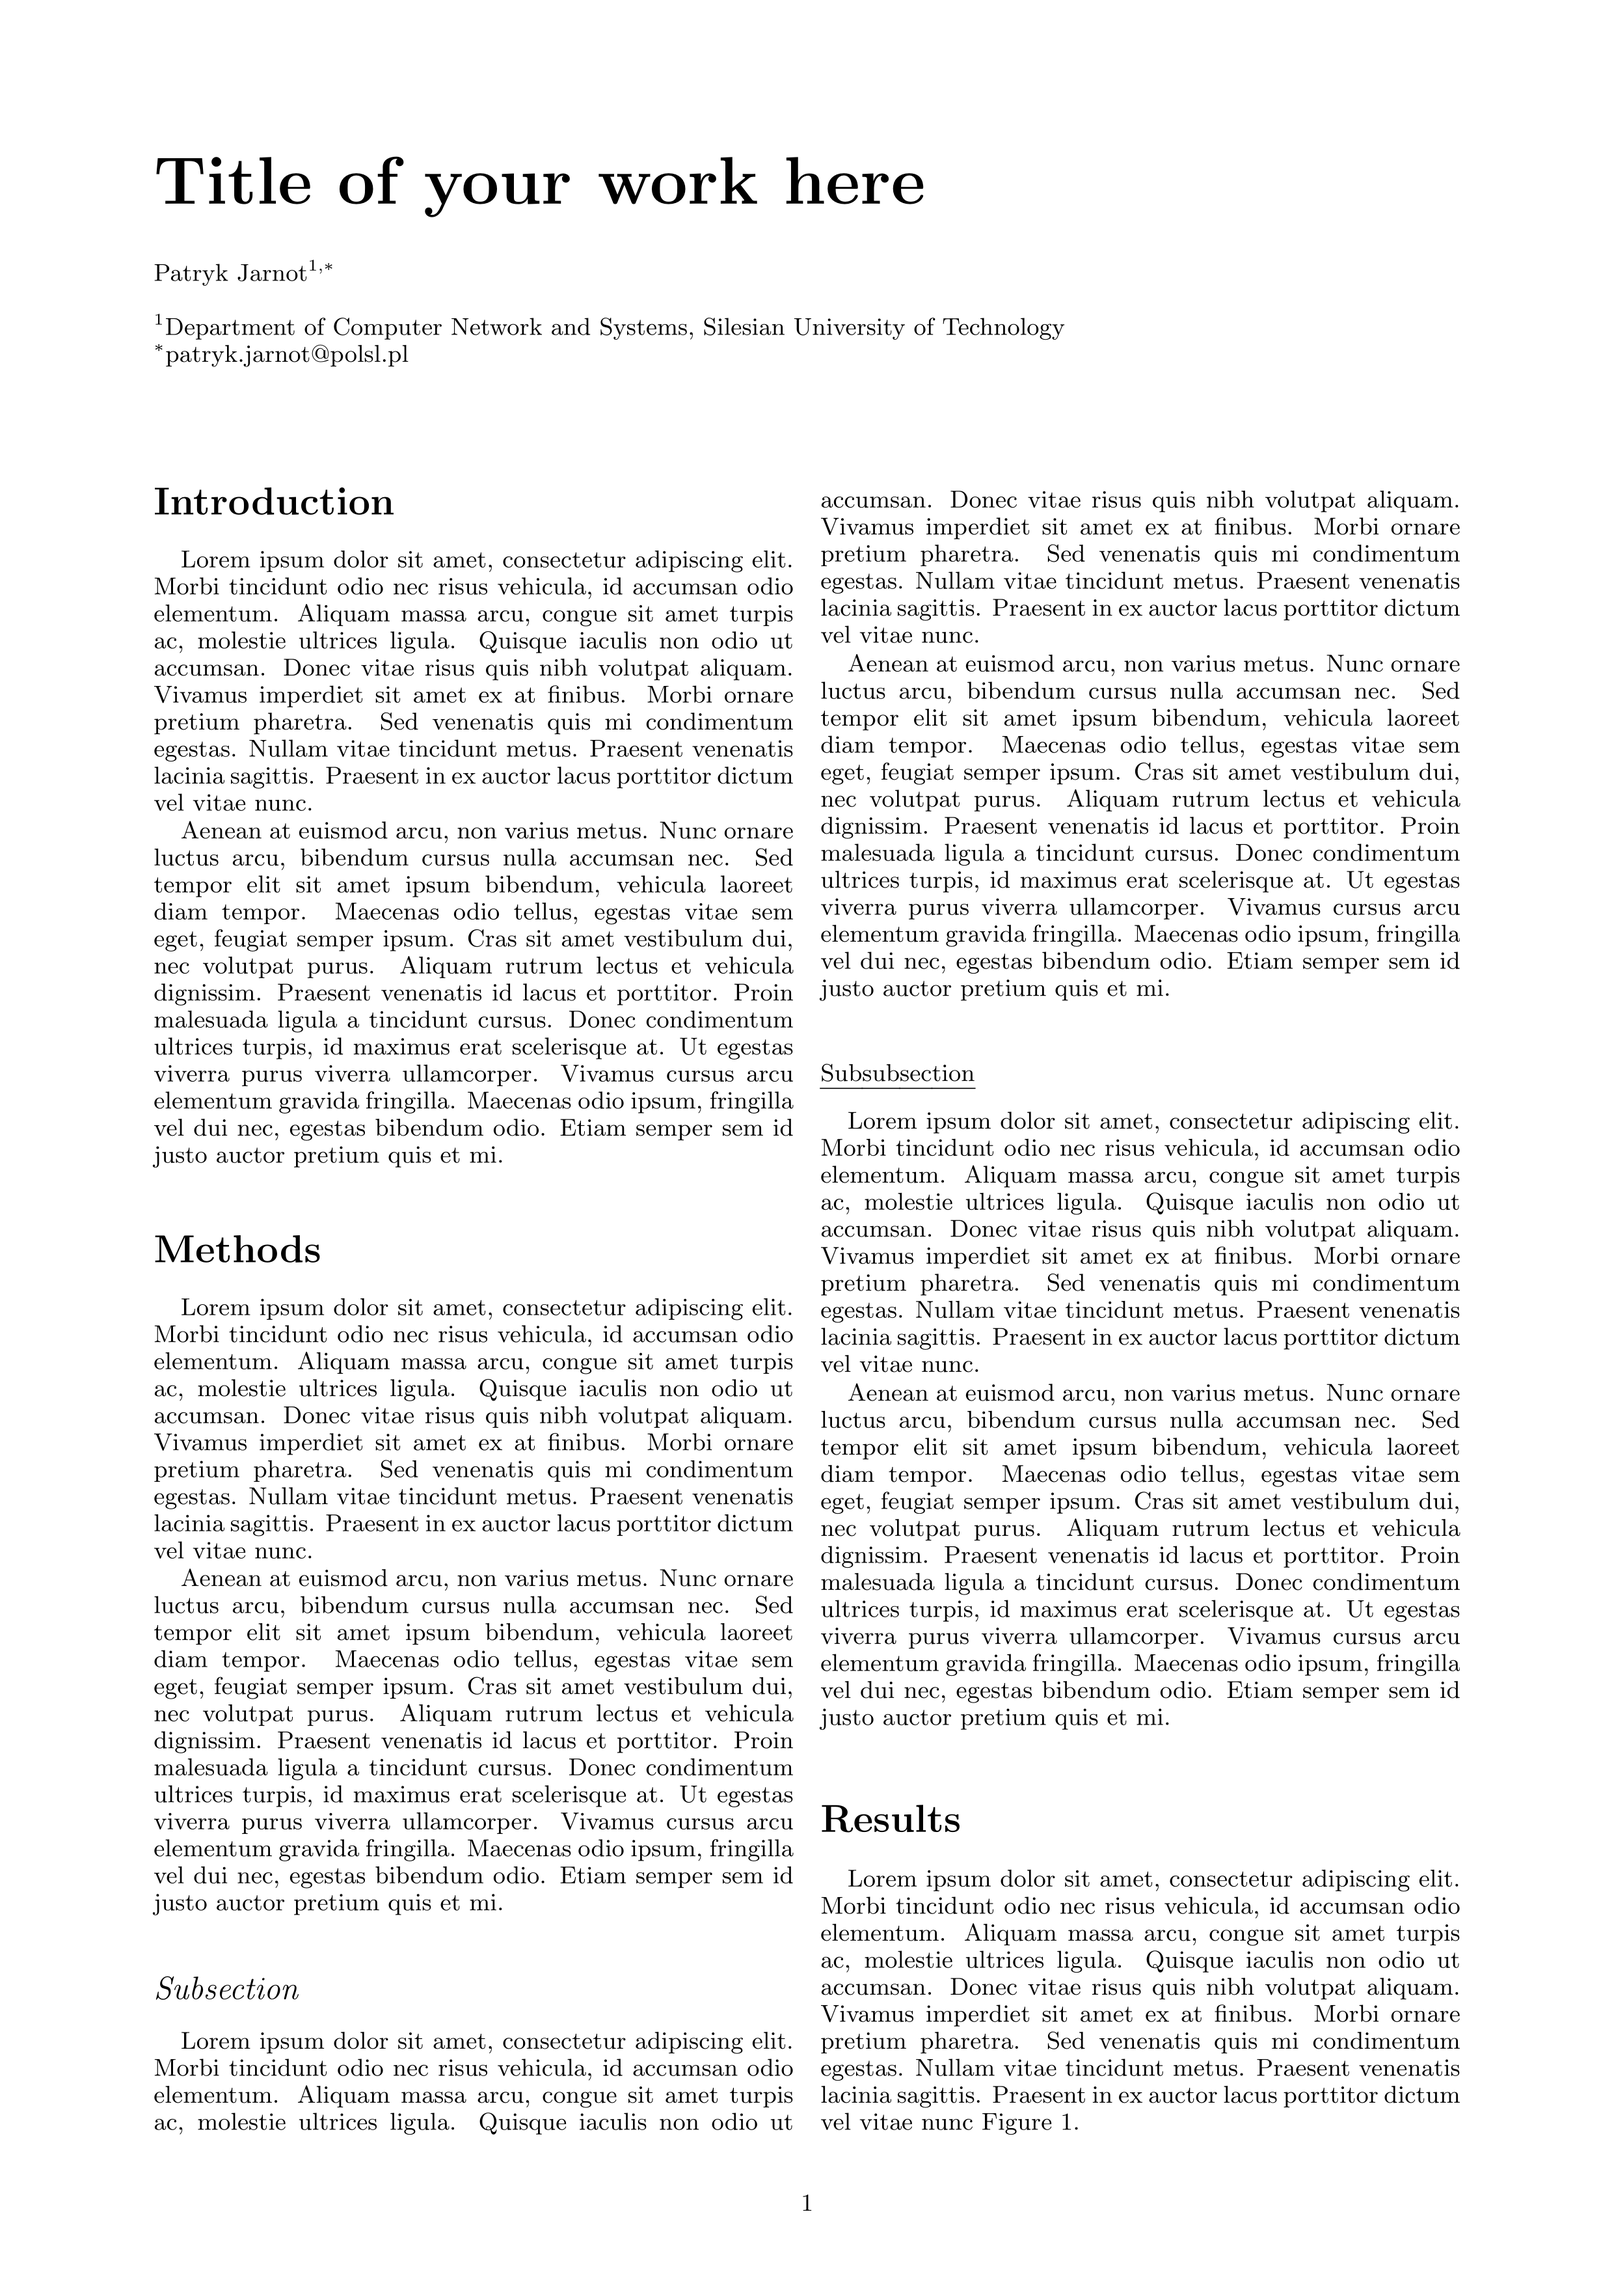
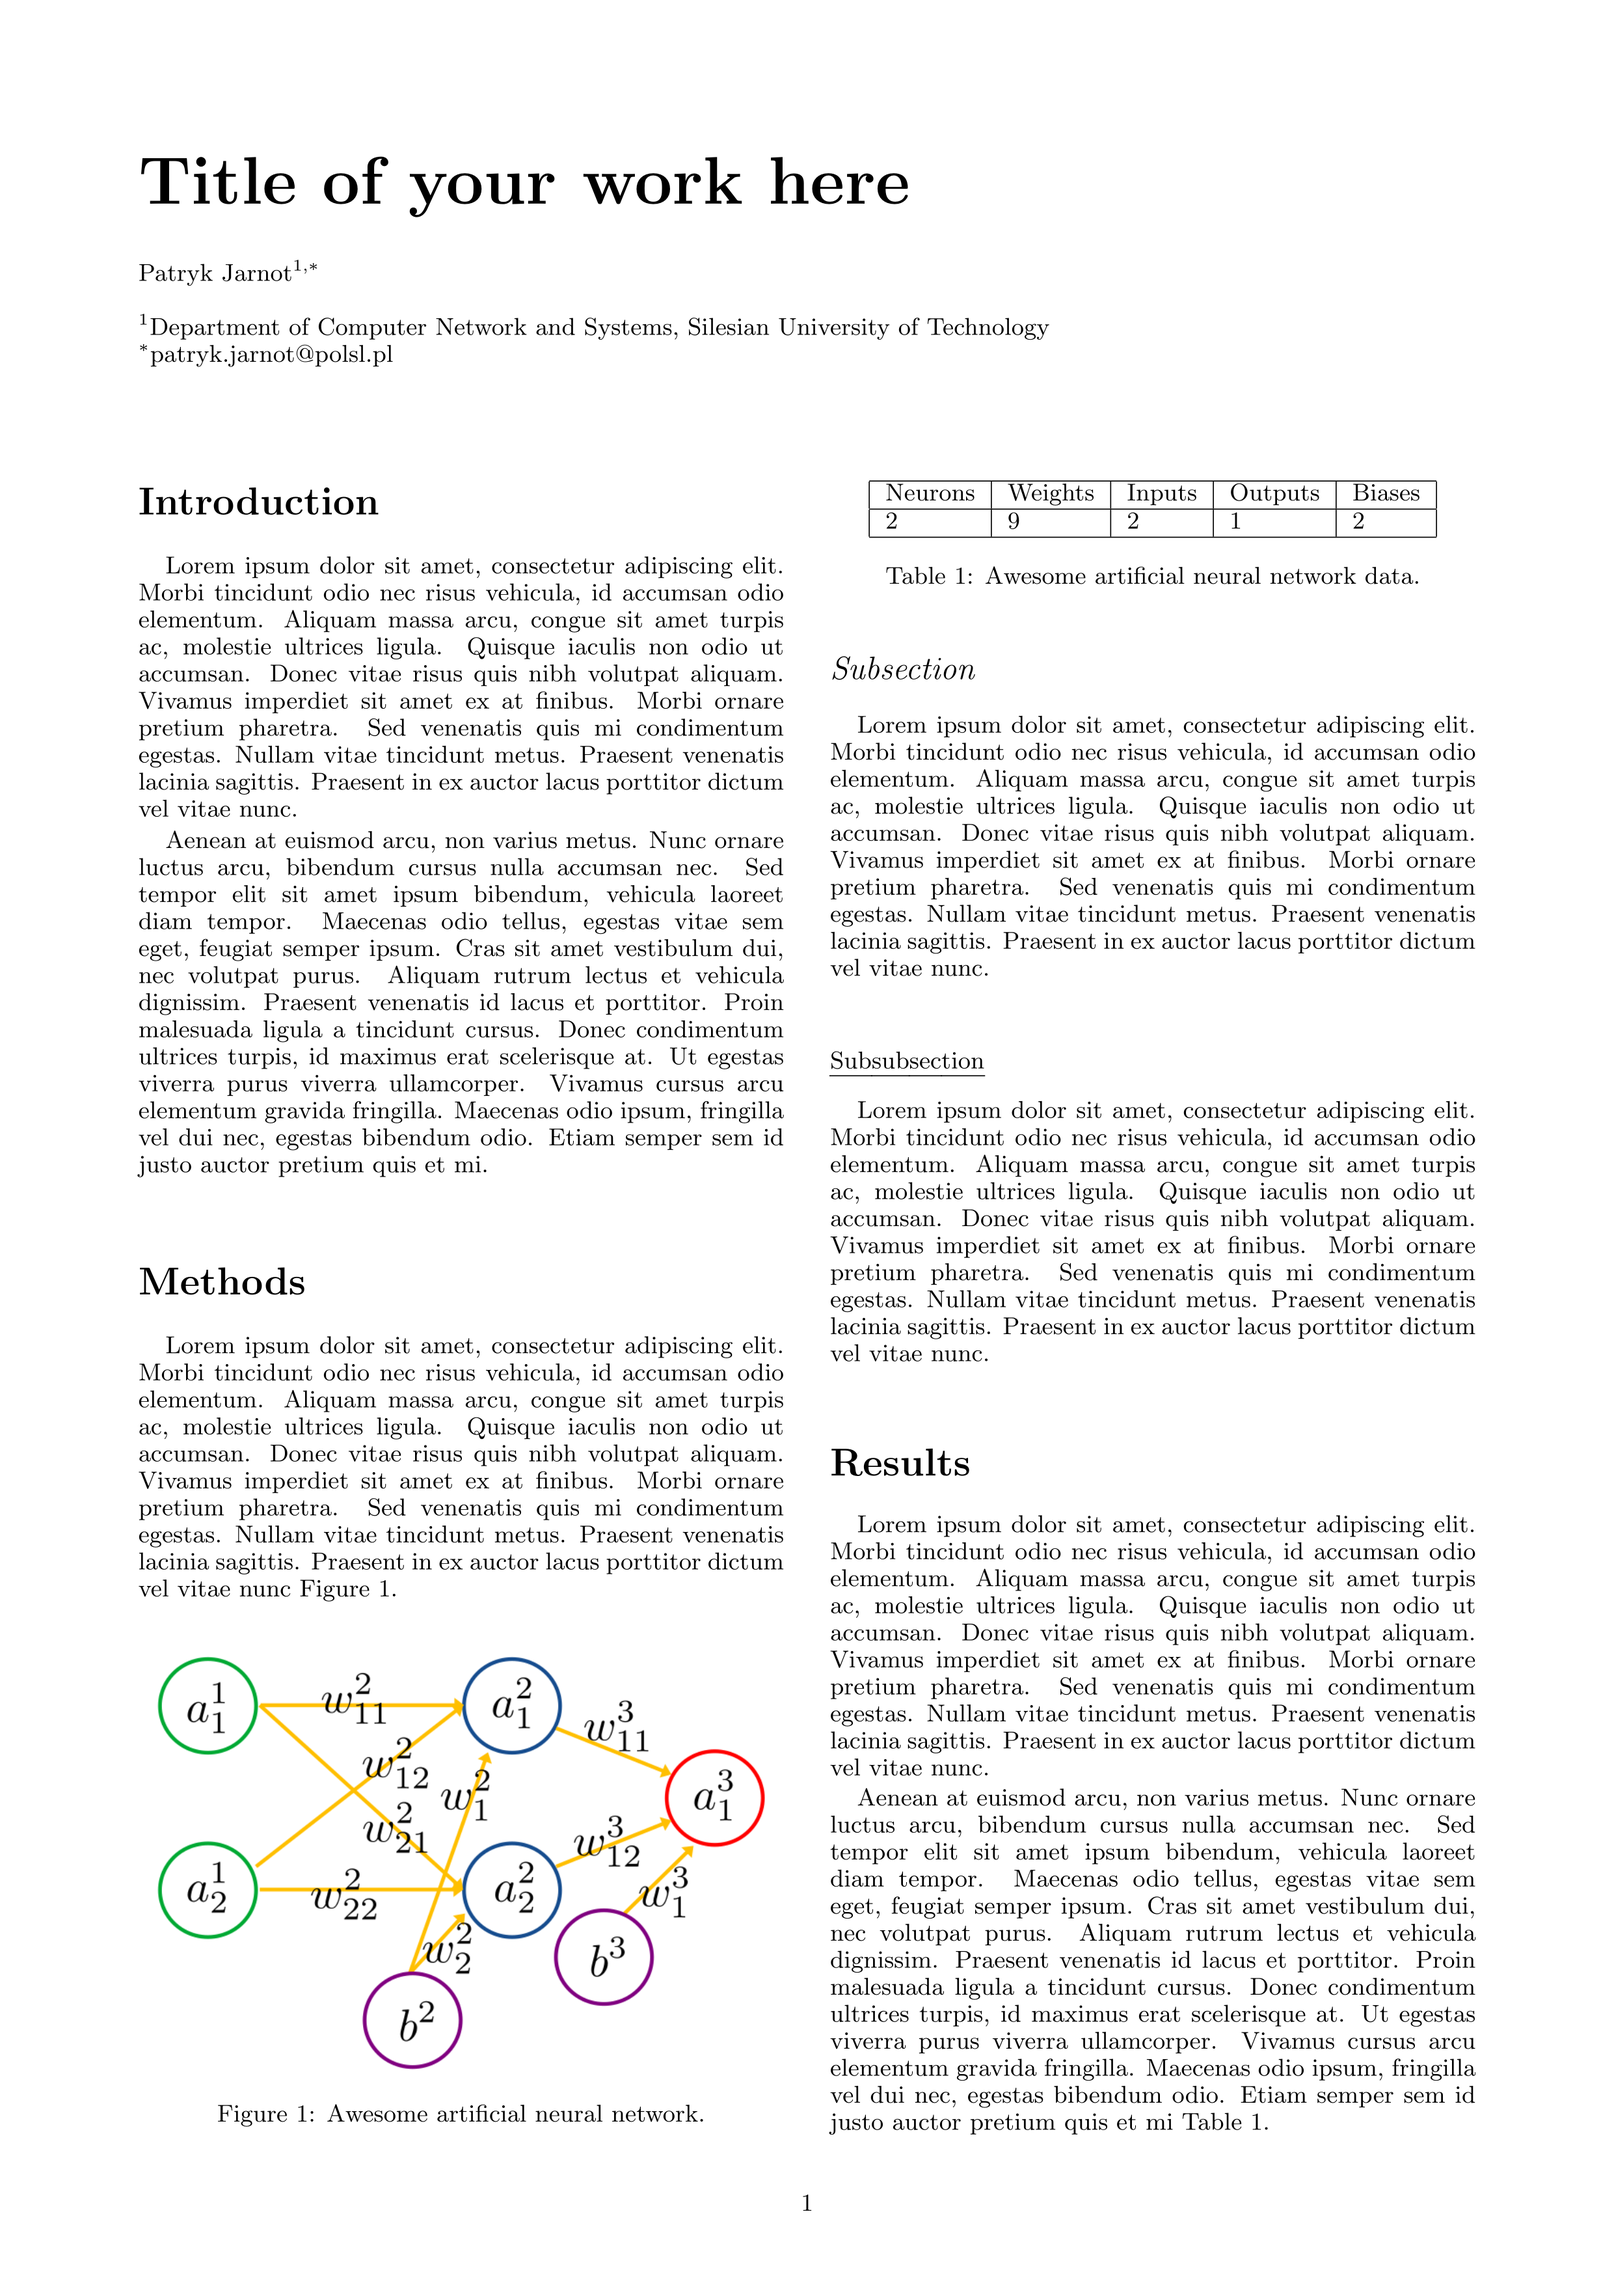
Update screenshots

diff --git a/mini_template.tex b/mini_template.tex
@@ -31,29 +31,23 @@ Lorem ipsum dolor sit amet, consectetur adipiscing elit. Morbi tincidunt odio ne
 Aenean at euismod arcu, non varius metus. Nunc ornare luctus arcu, bibendum cursus nulla accumsan nec. Sed tempor elit sit amet ipsum bibendum, vehicula laoreet diam tempor. Maecenas odio tellus, egestas vitae sem eget, feugiat semper ipsum. Cras sit amet vestibulum dui, nec volutpat purus. Aliquam rutrum lectus et vehicula dignissim. Praesent venenatis id lacus et porttitor. Proin malesuada ligula a tincidunt cursus. Donec condimentum ultrices turpis, id maximus erat scelerisque at. Ut egestas viverra purus viverra ullamcorper. Vivamus cursus arcu elementum gravida fringilla. Maecenas odio ipsum, fringilla vel dui nec, egestas bibendum odio. Etiam semper sem id justo auctor pretium quis et mi.
 
 \section{Methods}
-Lorem ipsum dolor sit amet, consectetur adipiscing elit. Morbi tincidunt odio nec risus vehicula, id accumsan odio elementum. Aliquam massa arcu, congue sit amet turpis ac, molestie ultrices ligula. Quisque iaculis non odio ut accumsan. Donec vitae risus quis nibh volutpat aliquam. Vivamus imperdiet sit amet ex at finibus. Morbi ornare pretium pharetra. Sed venenatis quis mi condimentum egestas. Nullam vitae tincidunt metus. Praesent venenatis lacinia sagittis. Praesent in ex auctor lacus porttitor dictum vel vitae nunc.
-
-Aenean at euismod arcu, non varius metus. Nunc ornare luctus arcu, bibendum cursus nulla accumsan nec. Sed tempor elit sit amet ipsum bibendum, vehicula laoreet diam tempor. Maecenas odio tellus, egestas vitae sem eget, feugiat semper ipsum. Cras sit amet vestibulum dui, nec volutpat purus. Aliquam rutrum lectus et vehicula dignissim. Praesent venenatis id lacus et porttitor. Proin malesuada ligula a tincidunt cursus. Donec condimentum ultrices turpis, id maximus erat scelerisque at. Ut egestas viverra purus viverra ullamcorper. Vivamus cursus arcu elementum gravida fringilla. Maecenas odio ipsum, fringilla vel dui nec, egestas bibendum odio. Etiam semper sem id justo auctor pretium quis et mi.
-
-\subsection{Subsection}
-Lorem ipsum dolor sit amet, consectetur adipiscing elit. Morbi tincidunt odio nec risus vehicula, id accumsan odio elementum. Aliquam massa arcu, congue sit amet turpis ac, molestie ultrices ligula. Quisque iaculis non odio ut accumsan. Donec vitae risus quis nibh volutpat aliquam. Vivamus imperdiet sit amet ex at finibus. Morbi ornare pretium pharetra. Sed venenatis quis mi condimentum egestas. Nullam vitae tincidunt metus. Praesent venenatis lacinia sagittis. Praesent in ex auctor lacus porttitor dictum vel vitae nunc.
-
-Aenean at euismod arcu, non varius metus. Nunc ornare luctus arcu, bibendum cursus nulla accumsan nec. Sed tempor elit sit amet ipsum bibendum, vehicula laoreet diam tempor. Maecenas odio tellus, egestas vitae sem eget, feugiat semper ipsum. Cras sit amet vestibulum dui, nec volutpat purus. Aliquam rutrum lectus et vehicula dignissim. Praesent venenatis id lacus et porttitor. Proin malesuada ligula a tincidunt cursus. Donec condimentum ultrices turpis, id maximus erat scelerisque at. Ut egestas viverra purus viverra ullamcorper. Vivamus cursus arcu elementum gravida fringilla. Maecenas odio ipsum, fringilla vel dui nec, egestas bibendum odio. Etiam semper sem id justo auctor pretium quis et mi.
-
-\subsubsection{Subsubsection}
-Lorem ipsum dolor sit amet, consectetur adipiscing elit. Morbi tincidunt odio nec risus vehicula, id accumsan odio elementum. Aliquam massa arcu, congue sit amet turpis ac, molestie ultrices ligula. Quisque iaculis non odio ut accumsan. Donec vitae risus quis nibh volutpat aliquam. Vivamus imperdiet sit amet ex at finibus. Morbi ornare pretium pharetra. Sed venenatis quis mi condimentum egestas. Nullam vitae tincidunt metus. Praesent venenatis lacinia sagittis. Praesent in ex auctor lacus porttitor dictum vel vitae nunc.
-
-Aenean at euismod arcu, non varius metus. Nunc ornare luctus arcu, bibendum cursus nulla accumsan nec. Sed tempor elit sit amet ipsum bibendum, vehicula laoreet diam tempor. Maecenas odio tellus, egestas vitae sem eget, feugiat semper ipsum. Cras sit amet vestibulum dui, nec volutpat purus. Aliquam rutrum lectus et vehicula dignissim. Praesent venenatis id lacus et porttitor. Proin malesuada ligula a tincidunt cursus. Donec condimentum ultrices turpis, id maximus erat scelerisque at. Ut egestas viverra purus viverra ullamcorper. Vivamus cursus arcu elementum gravida fringilla. Maecenas odio ipsum, fringilla vel dui nec, egestas bibendum odio. Etiam semper sem id justo auctor pretium quis et mi.
-\section{Results}
 Lorem ipsum dolor sit amet, consectetur adipiscing elit. Morbi tincidunt odio nec risus vehicula, id accumsan odio elementum. Aliquam massa arcu, congue sit amet turpis ac, molestie ultrices ligula. Quisque iaculis non odio ut accumsan. Donec vitae risus quis nibh volutpat aliquam. Vivamus imperdiet sit amet ex at finibus. Morbi ornare pretium pharetra. Sed venenatis quis mi condimentum egestas. Nullam vitae tincidunt metus. Praesent venenatis lacinia sagittis. Praesent in ex auctor lacus porttitor dictum vel vitae nunc Figure~\ref{fig:ann}.
 
-
-\begin{figure}[]
+\begin{figure}[H]
     \centering
     \includegraphics[width=230pt]{resources/ann.png}
     \caption{Awesome artificial neural network.}
     \label{fig:ann}
 \end{figure}
+
+\subsection{Subsection}
+Lorem ipsum dolor sit amet, consectetur adipiscing elit. Morbi tincidunt odio nec risus vehicula, id accumsan odio elementum. Aliquam massa arcu, congue sit amet turpis ac, molestie ultrices ligula. Quisque iaculis non odio ut accumsan. Donec vitae risus quis nibh volutpat aliquam. Vivamus imperdiet sit amet ex at finibus. Morbi ornare pretium pharetra. Sed venenatis quis mi condimentum egestas. Nullam vitae tincidunt metus. Praesent venenatis lacinia sagittis. Praesent in ex auctor lacus porttitor dictum vel vitae nunc.
+
+\subsubsection{Subsubsection}
+Lorem ipsum dolor sit amet, consectetur adipiscing elit. Morbi tincidunt odio nec risus vehicula, id accumsan odio elementum. Aliquam massa arcu, congue sit amet turpis ac, molestie ultrices ligula. Quisque iaculis non odio ut accumsan. Donec vitae risus quis nibh volutpat aliquam. Vivamus imperdiet sit amet ex at finibus. Morbi ornare pretium pharetra. Sed venenatis quis mi condimentum egestas. Nullam vitae tincidunt metus. Praesent venenatis lacinia sagittis. Praesent in ex auctor lacus porttitor dictum vel vitae nunc.
+
+\section{Results}
+Lorem ipsum dolor sit amet, consectetur adipiscing elit. Morbi tincidunt odio nec risus vehicula, id accumsan odio elementum. Aliquam massa arcu, congue sit amet turpis ac, molestie ultrices ligula. Quisque iaculis non odio ut accumsan. Donec vitae risus quis nibh volutpat aliquam. Vivamus imperdiet sit amet ex at finibus. Morbi ornare pretium pharetra. Sed venenatis quis mi condimentum egestas. Nullam vitae tincidunt metus. Praesent venenatis lacinia sagittis. Praesent in ex auctor lacus porttitor dictum vel vitae nunc.
 
 Aenean at euismod arcu, non varius metus. Nunc ornare luctus arcu, bibendum cursus nulla accumsan nec. Sed tempor elit sit amet ipsum bibendum, vehicula laoreet diam tempor. Maecenas odio tellus, egestas vitae sem eget, feugiat semper ipsum. Cras sit amet vestibulum dui, nec volutpat purus. Aliquam rutrum lectus et vehicula dignissim. Praesent venenatis id lacus et porttitor. Proin malesuada ligula a tincidunt cursus. Donec condimentum ultrices turpis, id maximus erat scelerisque at. Ut egestas viverra purus viverra ullamcorper. Vivamus cursus arcu elementum gravida fringilla. Maecenas odio ipsum, fringilla vel dui nec, egestas bibendum odio. Etiam semper sem id justo auctor pretium quis et mi Table~\ref{tab:ann_arch}.
 
@@ -61,7 +55,7 @@ Aenean at euismod arcu, non varius metus. Nunc ornare luctus arcu, bibendum curs
     \centering
     \begin{tabular}{|l|l|l|l|l|}
         \hline
-        Hidden neurons & Weights & Inputs & Outputs & Biases \\ \hline
+        Neurons & Weights & Inputs & Outputs & Biases \\ \hline
         2              & 9       & 2      & 1       & 2      \\ \hline
     \end{tabular}
     \caption{Awesome artificial neural network data.}
